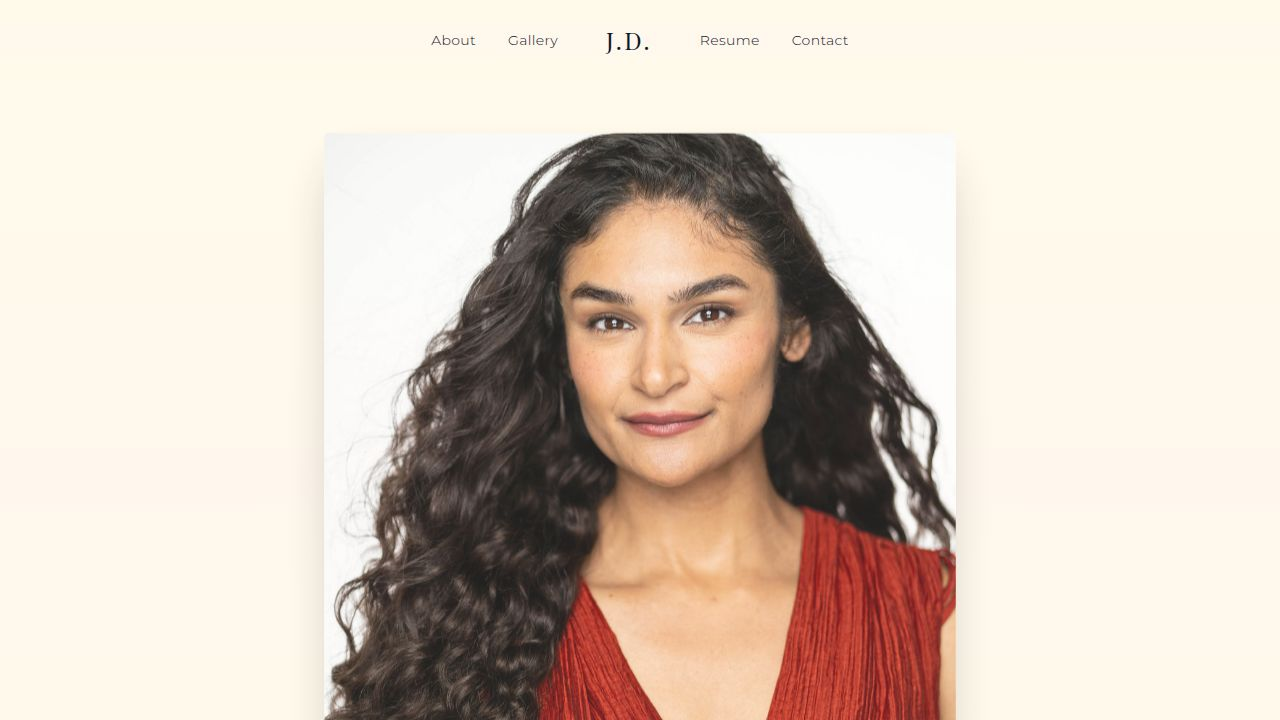
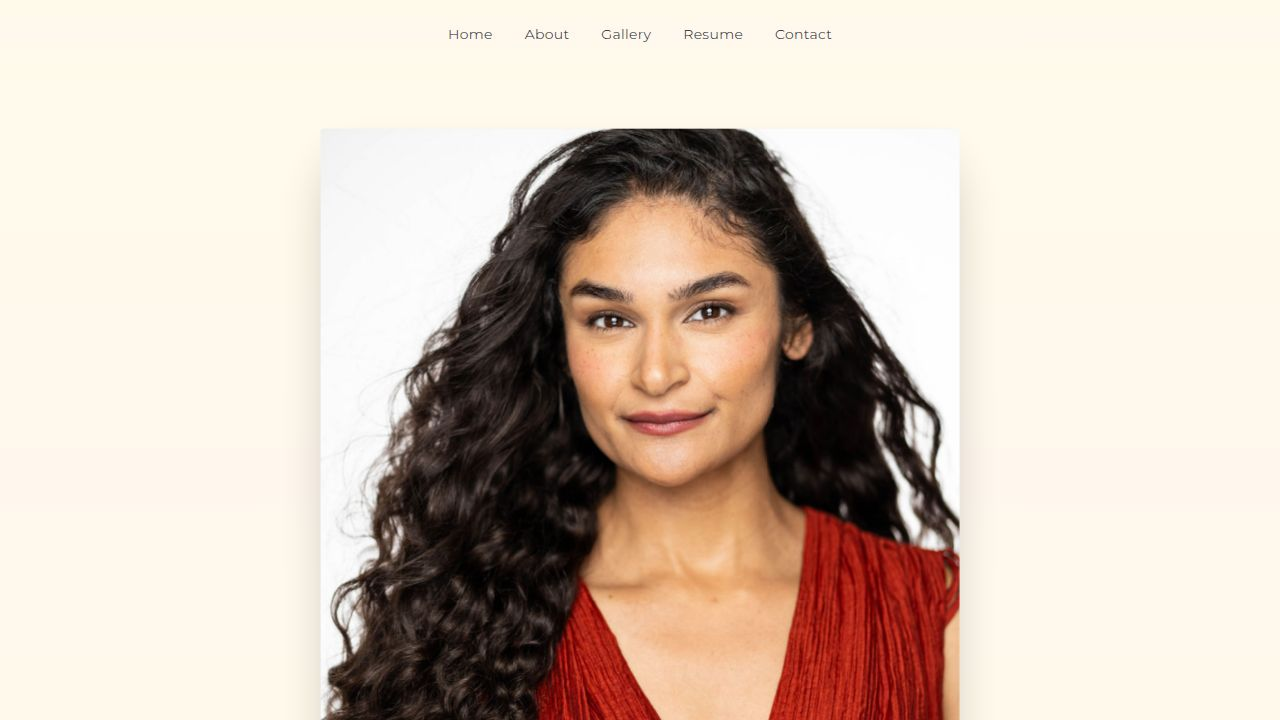
Update website navigation to replace J.D. button with Home
Replace the "J.D." button with a "Home" button and reposition it to the left of the "About" button in the main navigation bar of the Home page component.

Replit-Commit-Author: Agent
Replit-Commit-Session-Id: 2afaccc5-3014-4dd8-a04b-2e373a2a9aad
Replit-Commit-Checkpoint-Type: full_checkpoint
Replit-Commit-Event-Id: ea95c53d-5c2f-4ba5-97dd-519992ab2a6b
Replit-Commit-Screenshot-Url: https://storage.googleapis.com/screenshot-production-us-central1/823f3cb0-065d-4b5f-ac53-940694b62e66/2afaccc5-3014-4dd8-a04b-2e373a2a9aad/OHydVui
Replit-Helium-Checkpoint-Created: true

diff --git a/client/src/pages/Home.tsx b/client/src/pages/Home.tsx
@@ -39,9 +39,9 @@ export default function Home() {
       <header className="fixed top-0 left-0 right-0 w-full bg-gradient-to-b from-amber-50 via-orange-50 to-amber-50 py-4 md:py-6 z-50">
         <nav className="flex justify-center items-center">
           <div className="flex gap-4 md:gap-8 font-light tracking-wide text-xs md:text-sm items-center text-gray-900">
+            <a href="#" className="hover:text-primary transition-colors">Home</a>
             <a href="#about" className="hover:text-primary transition-colors">About</a>
             <a href="#gallery" className="hover:text-primary transition-colors">Gallery</a>
-            <a href="#" className="font-serif text-xl md:text-2xl tracking-widest uppercase px-2 md:px-4">J.D.</a>
             <button
               onClick={() => setShowResume(true)}
               className="hover:text-primary transition-colors"
